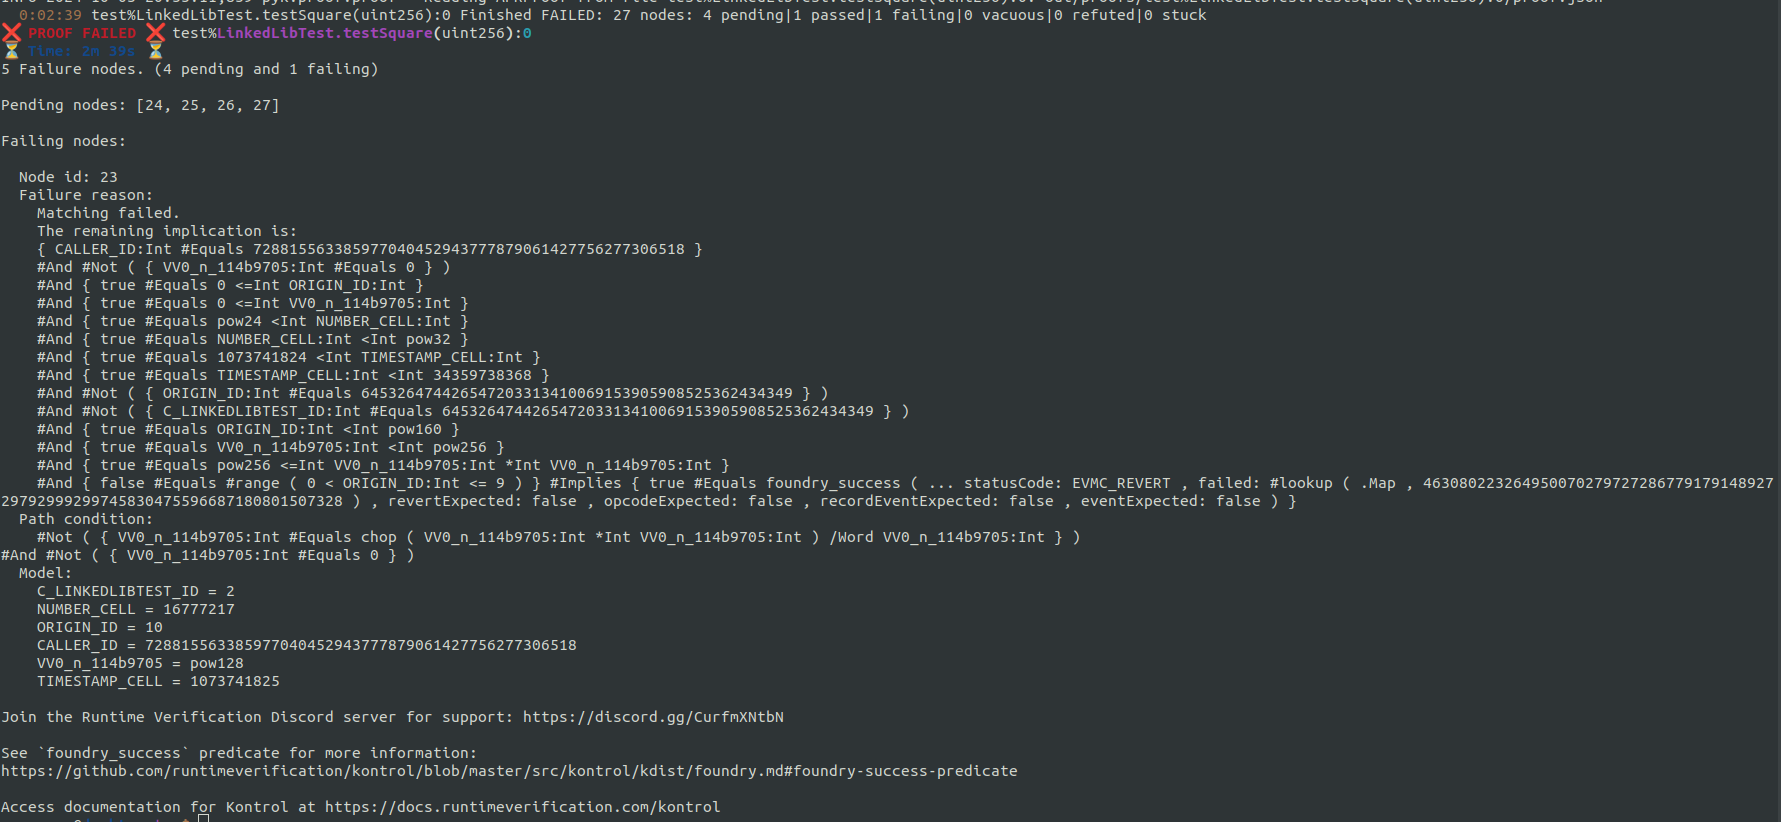
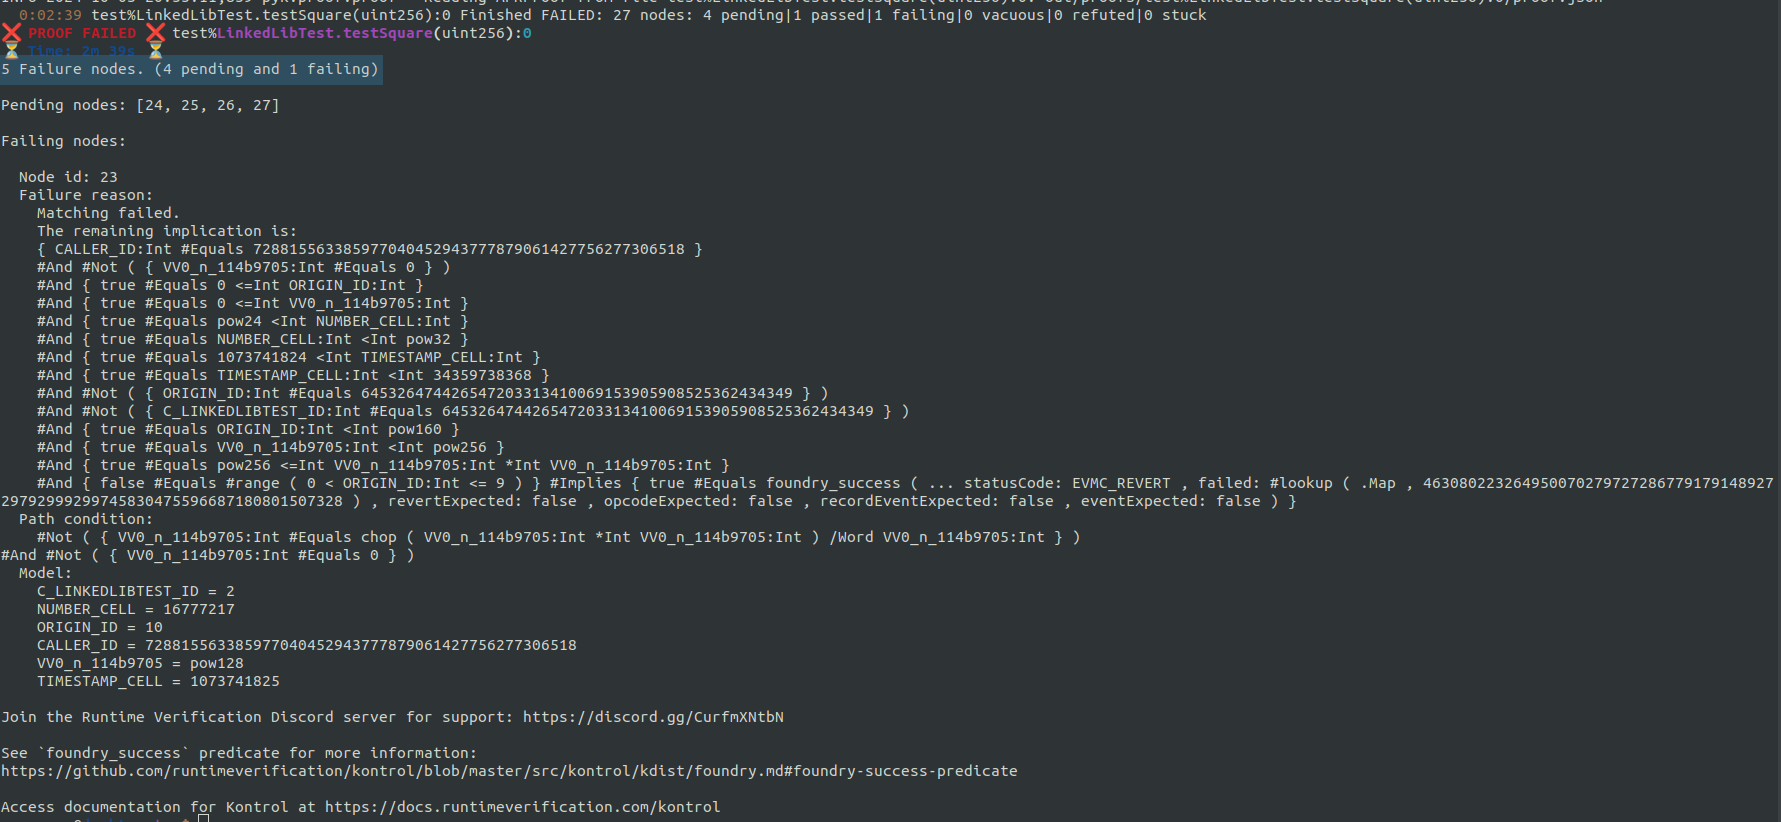
tweaks

Changed region(s): [[0.0, 0.0608, 0.2162, 0.1217]]

diff --git a/guides/kontrol-example/linked-library-example.md b/guides/kontrol-example/linked-library-example.md
@@ -2,14 +2,14 @@
 
 In Solidity, a library is a collection of functions that other contracts can call.
 If you're unfamiliar with libraries, we strongly recommend checking the [official documentation](https://docs.soliditylang.org/en/latest/contracts.html#libraries).
-An important note to mention is that if a library only has internal or private functions, it is considered an embedded library, and it will be deployed with the contract that uses it.
-However, suppose a library has at least one external or public function.
-In that case, the generated bytecode of the contract, which uses this library, will have a placeholder like `__$30bbc0abd4d6364515865950d3e0d10953$__` in place of the library address, as the compiler does not know where the library will be deployed.
-Kontrol and Forge will handle this step automatically when running tests using linked libraries.
+An important note is that if a library only has internal or private functions, it is considered an embedded library and will be deployed with the contract that uses it.
+However, if a library has at least one external or public function, it needs to be deployed independently of the contract.
+Additionally, the generated bytecode of the contract that uses this library will have a placeholder like `__$30bbc0abd4d6364515865950d3e0d10953$__` in place of the library address, as the compiler does not know where the library will be deployed.
+The new Kontrol release and Forge automatically deploy the libraries and link them to the test contract when executing tests involving linked libraries.
 
 Now, let's set up a Kontrol project and run some proofs!
 
-First, let's set up a new project using `kontrol init`.
+First, ensure you have the latest Kontrol version and set up a new project using `kontrol init`.
 Next, we can create a new file under `test/LinkedLibTest.t.sol` with the following code.
 
 ```sol
@@ -51,20 +51,26 @@ Shortly after seeing these messages, the proof fails with the message shown in t
 
 <figure><img src="../../.gitbook/assets/linked_libs_2.png" alt=""><figcaption><p>output of a failing proof</p></figcaption></figure>
 
-Let's look closer at the 3-way non-deterministic branching we noticed during the proof execution.
+Towards the top of the output, we see the message `5 Failure nods. (4 pending and 1 failing)`.
+By default, Kontrol uses the fail-fast strategy, stopping the execution when it is confident that a node has reached a failing state.
+The `4 pending` nodes represent execution paths that Kontrol has not explored yet.
+
+Let's set aside the output for now and look closer at the 3-way non-deterministic branching we noticed during the proof execution.
 We can view the proof's CFG in the Kontrol Terminal User Interface with `kontrol view-kcfg LinkedLibTest.testSquare`.
 
-We should see something like this after selecting node number 3 from the left panel:
+Once the interface has loaded, you can select the third node from the left panel.
+Now, your interface should look like in the screenshot below.
 
 <figure><img src="../../.gitbook/assets/linked_libs_3.png" alt=""><figcaption><p>Kontrol_TUI_0</p></figcaption></figure>
 
 In the bottom right corner, we see that the source map points to the `uint256 result = SimpleMath.square(n);` line.
 
 In addition, we can see that the internal rule, marked with `k:` at which the node was `cut` is `#transferFunds CALLER_ID: Int 728815563385977040452943777879061427756277306518 0`.
-`#transferFunds` is an internal step that the evm-semantics applies during calls.
-The `#transferFunds` rule represents an internal step that the EVM semantics applies during a call, specifically handling the transfer of Ether between accounts.
-This branching occurs because the prover considers every possible scenario regarding the transfer, even when no funds are involved.
+This is partially displayed in the node information, highlighted in green in the screenshot above.
+The complete rule is displayed in the configuration loaded in the upper right tab.
+The `#transferFunds` rule represents an internal step that the EVM semantics apply during a call, explicitly handling the transfer of Ether between accounts.
 At this point, our intuition tells us that the execution branches when the machine tries to send `0` funds from a symbolic address named `CALLER_ID` to the `728815563385977040452943777879061427756277306518` address.
+This branching occurs because the prover considers every possible scenario regarding the transfer, even when no funds are involved.
 
 ![](https://media.giphy.com/media/s239QJIh56sRW/giphy.gif)
 
@@ -88,7 +94,6 @@ The use of `DELEGATECALL` is also confirmed by the official documentation, which
 
 The symbolic `CALLER_ID` represents the address used by Kontrol to initiate the proof and to invoke the `LinkedLibTest.testSquare` function in the test contract.
 Since the library function is accessed using `DELEGATECALL`, the same symbolic caller is used.
-Internally,
 The branching occurs because the prover evaluates all possible scenarios where:
  1. `CALLER_ID` matches one of the addresses present in the network state.
  2. `CALLER_ID` it is distinct from any of the existing accounts.
@@ -102,7 +107,6 @@ We can introduce new preconditions for `CALLER_ID` using `vm.assume` before the 
 For example, we can assume that `CALLER_ID` is different than any address in the `<network>` state.
 
 ``` sol
-vm.assume(msg.sender != address(64532647442654720331341006915390590852536243434));
 vm.assume(msg.sender != address(728815563385977040452943777879061427756277306518));
 vm.assume(msg.sender != address(856800046449367729202688009541038160569764461356));
 ```
@@ -117,7 +121,6 @@ Let's go with the first approach, updating the test function to:
 
 ```sol
 function testSquare(uint256 n) public {
-    vm.assume(msg.sender != address(64532647442654720331341006915390590852536243434));
     vm.assume(msg.sender != address(728815563385977040452943777879061427756277306518));
     vm.assume(msg.sender != address(856800046449367729202688009541038160569764461356));
 
@@ -126,12 +129,22 @@ function testSquare(uint256 n) public {
 }
 ```
 
+> An important note is that, by default, Kontrol automatically adds a few preconditions on the symbolic addresses used: `CALLER_ID`, `ORIGIN_ID`, and any new address generated by the `kevm.freshAddress()` cheat code.
+These include the symbolic address not being precompiled nor the address of the cheat-code interface, which is `64532647442654720331341006915390590852536243434`.
+> You can always see the path constraints of the symbolic variables by inspecting the middle tab on the right-hand side of the TUI.
+
 Next, we must rebuild the project with `kontrol build --regen --rekompile`.
 With this approach, we preserve the previous proof executions, but update the definition of the project we are analyzing.
 Now let's run the new test with `kontrol prove --mt LinkedLibTest.testSquare --reinit`.
 
 The proof still fails, but we see only one pending node and one failing node.
-There is one more branch that takes place.
+In addition to this, the three-way branching no longer takes place.
+The three posibilities that the prover found were:
+ 1. `CALLER_ID` is `728815563385977040452943777879061427756277306518`
+ 2. `CALLER_ID` is `856800046449367729202688009541038160569764461356`
+ 3. `CALLER_ID` is not a known address from the network state.
+
+However, we need to investigate one more branching to determine why the proof is failing.
 
 We could inspect the KCFG once more to see what the control flow graph looks like now, but that is optional, as the information we need right now is also present in the final output of Kontrol.
 
